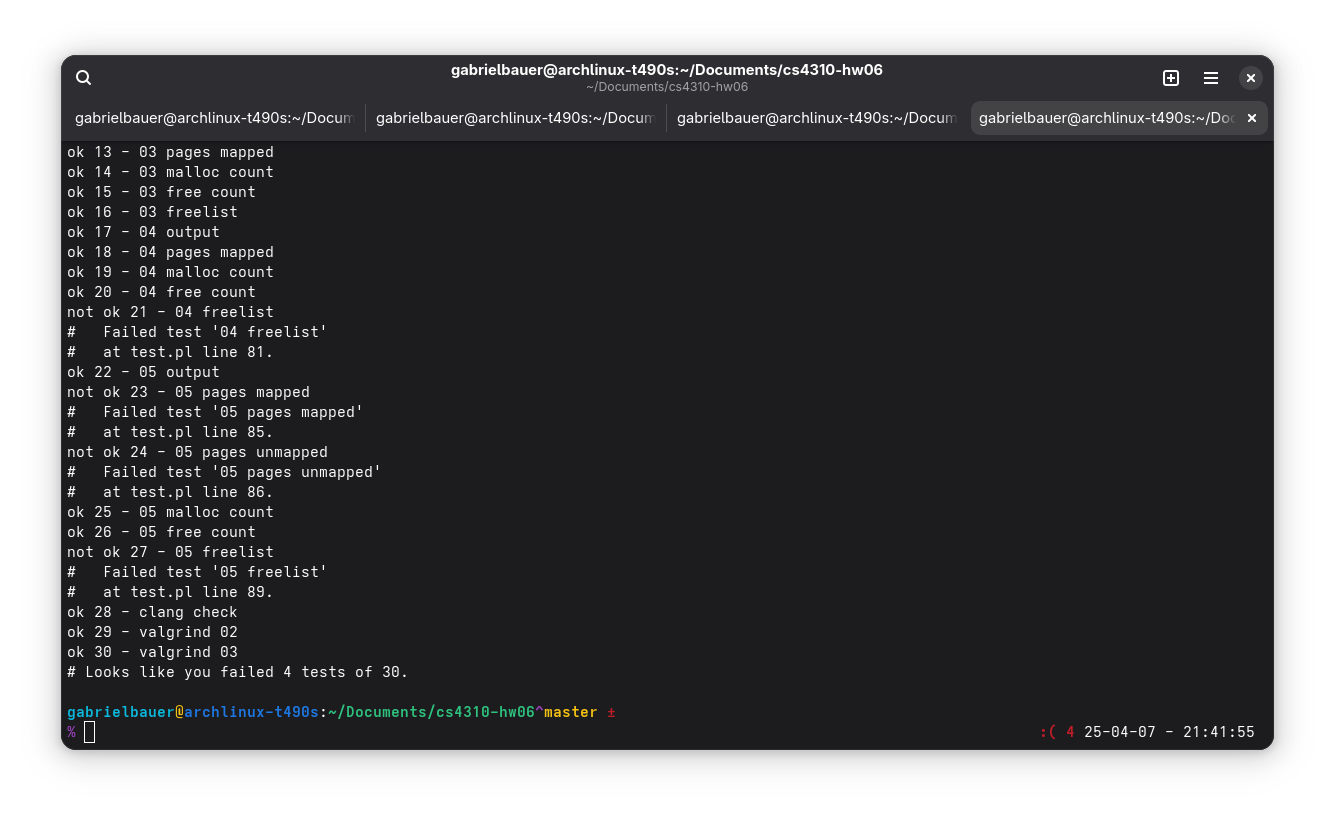
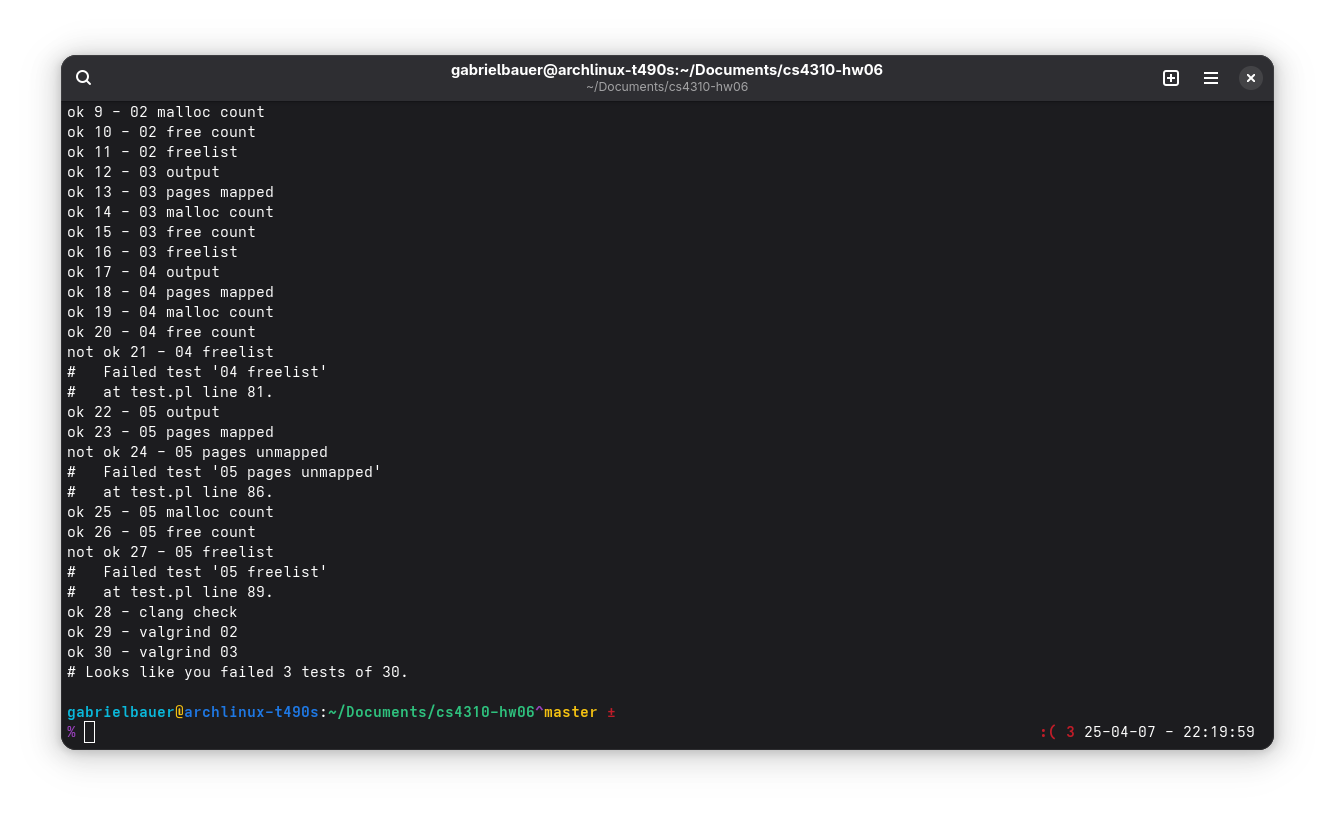
down to all but three...

Changed region(s): [[0.0307, 0.1224, 0.9521, 0.5508], [0.8906, 0.8874, 0.9213, 0.918]]

diff --git a/pmalloc.c b/pmalloc.c
@@ -16,7 +16,7 @@ bool __thread first_run = true;
 
 #include "pmalloc.h"
 
-const size_t PAGE_SIZE = 8192;
+const size_t PAGE_SIZE = 1.3*4096;
 size_t mul = 1;
 static pm_stats stats;
 static __thread node **array;
@@ -147,7 +147,7 @@ bucket_malloc(size_t size) {
 	
 	int i=0;
 	for(; array[i] && i<=k;i++) {
-		if(array[i]->size>=size+sizeof(node*)) {
+		if(array[i]->size>=size) {
 			size_t *ptr = (size_t*)array[i];
 			push(i, size);
 			*ptr = size;

diff --git a/pmalloc.h b/pmalloc.h
@@ -15,10 +15,12 @@ typedef struct pm_stats {
 typedef struct node {
 	size_t size;
 	struct node *next;
+	size_t _unused;
 } node;
 
 typedef struct header {
 	size_t size;
+	size_t _unused;
 } header;
 
 pm_stats* pgetstats();
